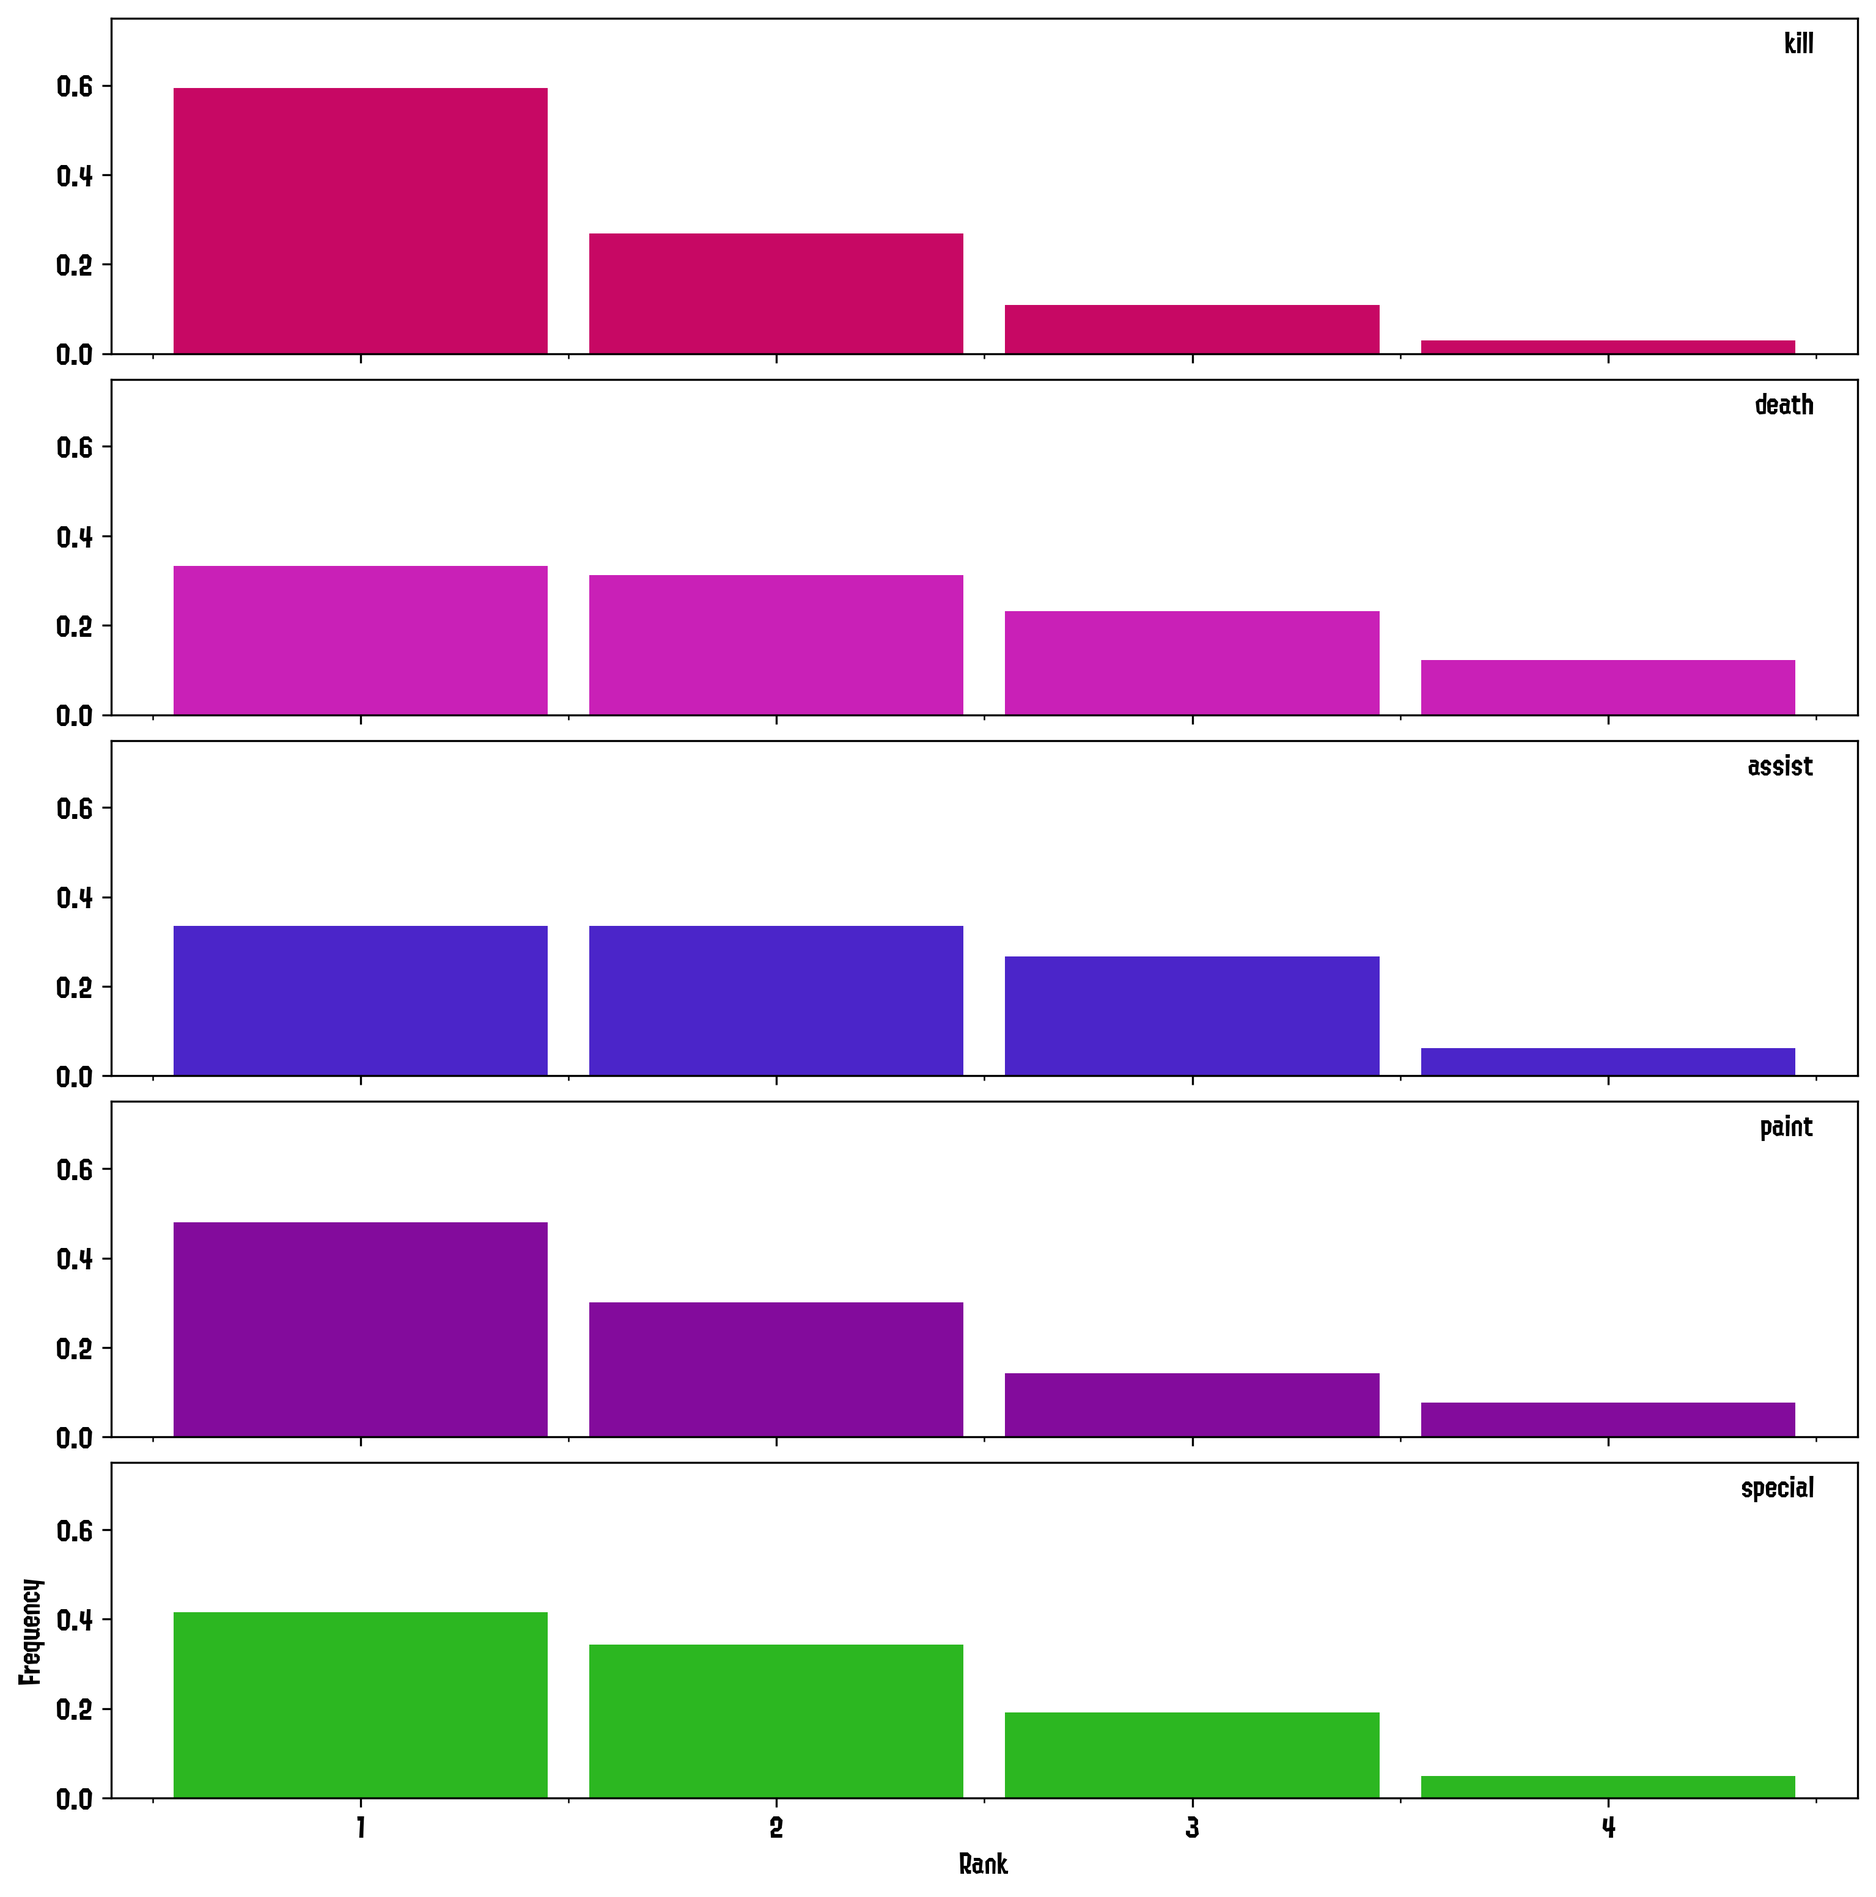
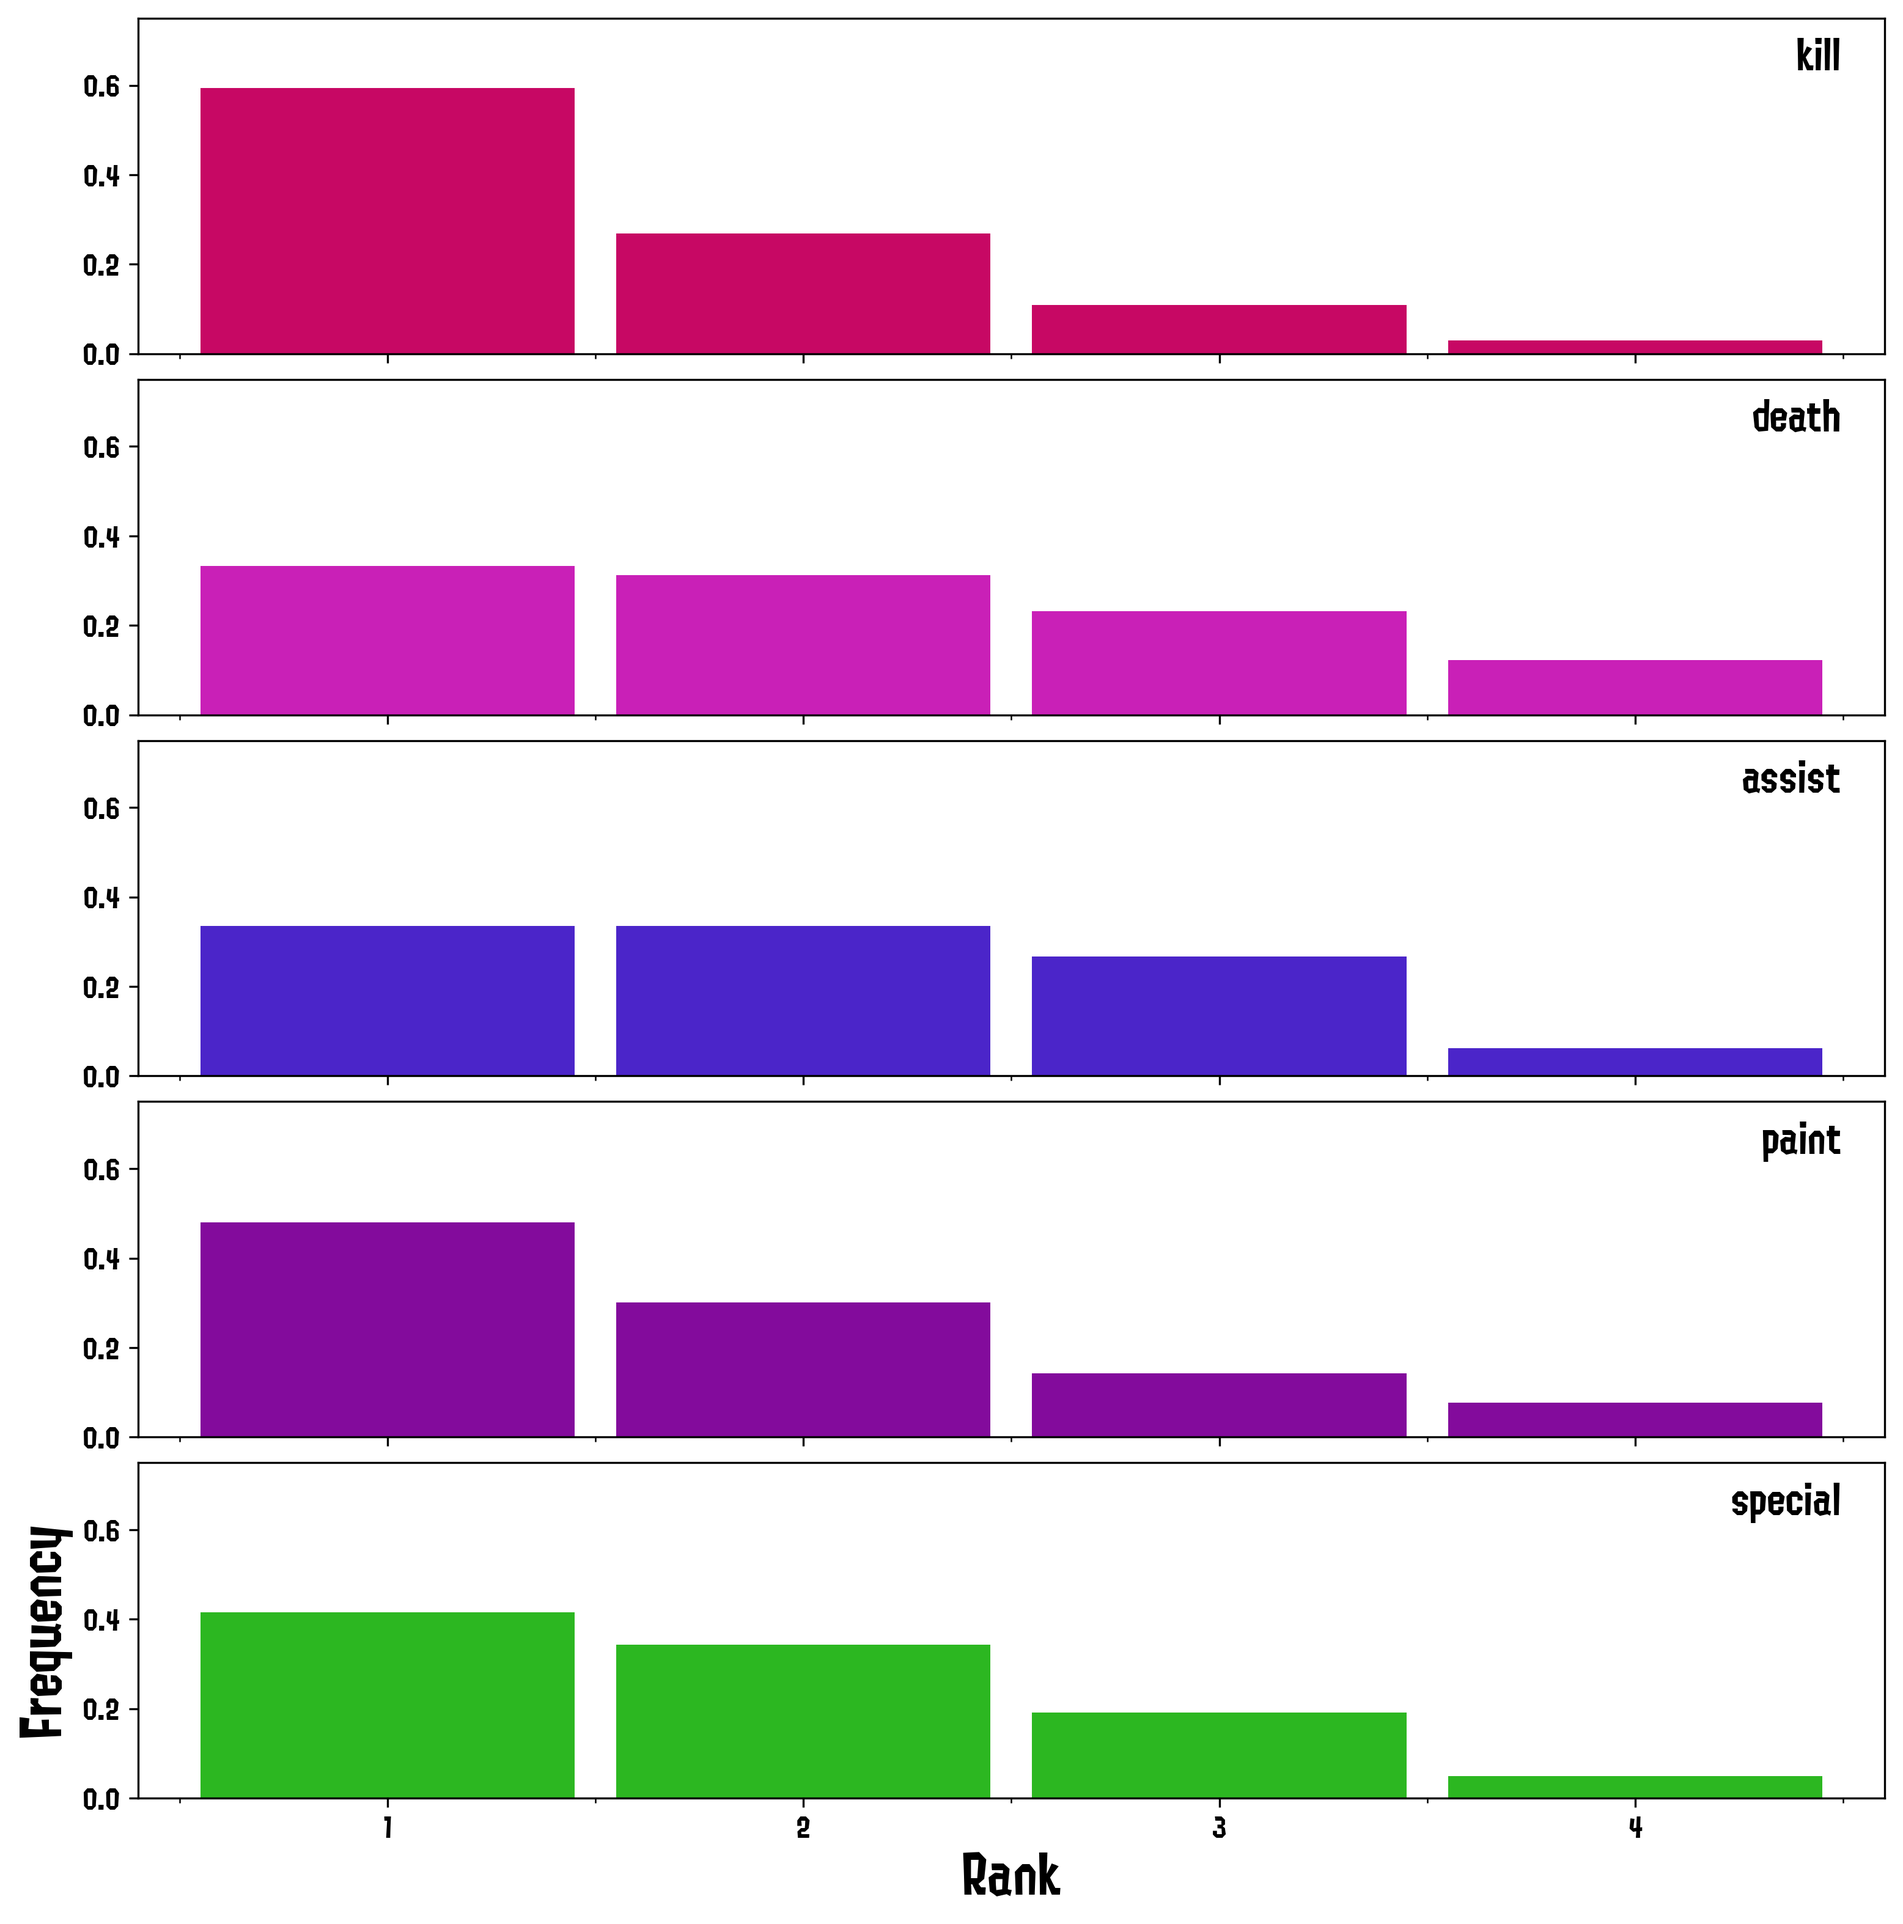
Docs images update

Changed region(s): [[0.0, 0.0312, 0.9906, 1.0], [0.9286, 0.0, 0.9906, 0.0312]]

diff --git a/SplatStats/dev/plotsMain.py b/SplatStats/dev/plotsMain.py
@@ -19,7 +19,7 @@ LEN_LIMIT = 400
 # Create Player Objects
 ##############################################################################
 historyFilepaths = splat.getDataFilepaths(iPath)
-# bPaths = splat.dumpBattlesFromJSONS(historyFilepaths, oPath, overwrite=False)
+bPaths = splat.dumpBattlesFromJSONS(historyFilepaths, oPath, overwrite=False)
 bPaths = splat.getBattleFilepaths(oPath)
 ###############################################################################
 # Setup Splats Font
@@ -63,7 +63,7 @@ for name in NAMES:
     dfRank = plyr.getPlayerAlliedRanking(cats=cats)
     (fig, axes) = plt.subplots(figsize=(10, 10), nrows=len(cats), sharex=True)
     (fig, axes) = splat.plotRanking(
-        (fig, axes), dfRank, 
+        (fig, axes), dfRank, fontsize=20,
         normalized=True, xLim=(-.6, 3.6), yLim=(0, 0.75)
     )
     fig.savefig(
@@ -77,7 +77,7 @@ for name in NAMES:
         figsize=(10, 10), nrows=len(cats), sharex=True
     )
     (fig, axes) = splat.plotRanking(
-        (fig, axes), dfRank, 
+        (fig, axes), dfRank, fontsize=20,
         normalized=True, xLim=(-.6, 7.6), yLim=(0, 0.5)
     )
     fig.savefig(

diff --git a/SplatStats/plots.py b/SplatStats/plots.py
@@ -722,7 +722,8 @@ def plotRanking(
         normalized=True, yLim=None, xLim=None,
         colors=['#C70864', '#C920B7', '#4B25C9', '#830B9C', '#2CB721'],
         categories=['kill', 'death', 'assist', 'paint', 'special'],
-        widthBar=0.9, title=True, pad=0, titlePos=(0.975, .9),
+        widthBar=0.9, title=True, pad=0, titlePos=(0.975, .85),
+        fontsize=20,
         **kwargs
     ):
     """Generates barcharts on stats for player's ranking across categories.
@@ -753,15 +754,15 @@ def plotRanking(
         if title:
             ax.text(
                 titlePos[0], titlePos[1], cat, 
-                transform=ax.transAxes, ha="right"
+                transform=ax.transAxes, ha="right", fontsize=fontsize*.75
             )
         if yLim:
             ax.set_ylim(*yLim)
         if xLim:
             ax.set_xlim(*xLim)
     axes[-1].set_xticklabels([i+1 for i in axes[-1].get_xticks()], rotation=0)
-    axes[-1].set_xlabel("Rank")
-    axes[-1].set_ylabel("Frequency")
+    axes[-1].set_xlabel("Rank", fontsize=fontsize)
+    axes[-1].set_ylabel("Frequency", fontsize=fontsize)
     return (fig, axes)
 
 
